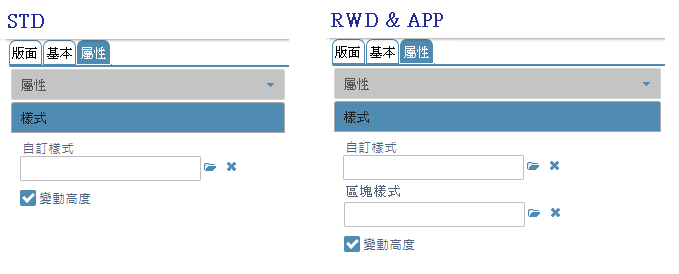
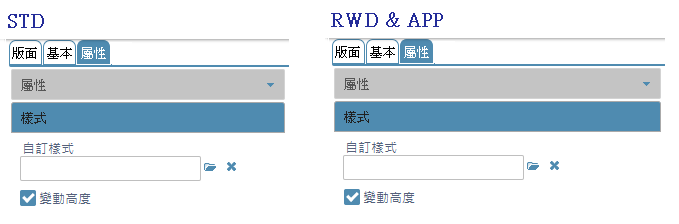
#8627、#8610 IDE SA文件

diff --git a/8.10.1/UPDATE/ITEM_5/IDE/Form/README.md b/8.10.1/UPDATE/ITEM_5/IDE/Form/README.md
@@ -9,7 +9,7 @@
 
     * 各元件類型在版面上的樣式呈現, 除非有特別說明或DKS已開放設定的部份, 其它皆以 Client 引擎目前的預設樣式為主(含除致能變化), 本文件不列引擎樣式說明, 若有引擎樣式規格問題, 請洽 Client 引擎負責人
         * 元件類型: 元件容器(wCtnr), 增加顯示區塊的狀態樣式: 請洽 client 引擎負責人
-        * 元件類型: 元件容器(wCtnr), 編輯模式下, 若資料查詢資料
+        * 元件類型: 元件容器(wCtnr), 當空白列或子元件總高度超過磚塊高度, 出現垂直捲軸
 
 * <p id="fieldbreak1" style="color:blue;font-weight:bold">版面物件操作說明</p>
 
@@ -20,8 +20,8 @@
             * 若設計類型=自適應 或 APP, 系統預設初始高度:50px, 元件屬性: 變動高度，固定為 True, 元件高度應依子階元件的總高度變動
                     此處規格不變，省略
         * 若元件類型=元件容器(wCtnr), 且區塊模式=磚塊式              
-            * 新增列、 插件列: 
-                * 固定給列高度:50px
+            * 新增列、 插入列: 
+                * 固定給列高度: 50px
                 * 磚塊高度、磚塊寬度: 不變化
             * 增修刪子元件時的異動變化
                 * 當新增子元件時, 磚塊高度不變; 子元件的變動高度調整為false, 且除能; 否則 致能
@@ -32,9 +32,6 @@
                 * 當修改子元件高度時
                     * 重新計算子元件總高度，若大於磚塊高度，則出現垂直捲軸 
                     * 重新計算該列子元件總高度, 若有多餘的高度，將剩餘的高度給最後一列
-                * 
-
-
 
 
 

diff --git a/8.10.1/UPDATE/ITEM_5/IDE/Form/WidgetBaseProperty_wCtnr.md b/8.10.1/UPDATE/ITEM_5/IDE/Form/WidgetBaseProperty_wCtnr.md
@@ -85,17 +85,15 @@
 * `(1)自訂樣式`
     * 用途說明
     * 規格說明
-        * 參照 [挑選自訂樣式通則][link_style_select], 限定: 元件類型=元件容器
-* `(2)區塊樣式`
-    * 用途說明
-    * 規格說明
-        * 參照 [挑選自訂樣式通則][link_style_select], 限定: 元件類型=區塊
+        * 參照 [挑選自訂樣式通則][link_style_select], 限定: 元件類型=元件容器, 回傳: 單元樣式名稱
+        * 
 * `(3)變動高度`
     * 用途說明
         * 當為磚塊式，提供變動高度選擇，單列式的容器元件一定是變動高度
     * 規格說明
         * 參照 [元件寬高異動通則][link_width_and_height]
-        * 當設計類型=APP 或 RWD, 且父階元件類型=元件容器(wCtnr), 且該父階的容器區塊模式=單列式, 本欄除能
+        * 當設計類型=APP 或 RWD, 且父階元件類型=元件容器(wCtnr), 且容器的區塊模式=磚塊式, 本欄除能. 系統預設: false
+        * 當設計類型=App 或 RWD, 且元件類型=元件容器(wCtnr), 且容器的區塊模式=單列式, 本欄除能. 系統預設: true
 
 
 ## <div id="right-click-function">右鍵功能</div>

diff --git a/8.10.0/UPDATE/ITEM_25/IDE/OAList/README.md b/8.10.0/UPDATE/ITEM_25/IDE/OAList/README.md
@@ -19,12 +19,14 @@
         * 規格說明
             * 單選選項: 下拉式 / 固定式
             * 系統預設: 下拉式
+            * 當表單設計類型=標準, 且`(1)呈現方式`=下拉式, 異動欄位: `(2)選擇筆數`=單選
             * <delLine>固定式: 選項 單選/複選; 呈現方式=固定式，致能; 預設單選<delLine>
     * `(2)選擇筆數`
         * 用途說明
         * 規格說明
             * 單選選項: 單選 / 多選
             * 系統預設: 單選
+            * 當表單設計類型=標準, 且`(1)呈現方式`=下拉式, 則 除能, 否則 致能
     * `(3)查詢轉換欄位`
         * 用途說明
         * 規格說明

diff --git a/8.10.1/UPDATE/ITEM_5/IDE/Form/GeneralRules.md b/8.10.1/UPDATE/ITEM_5/IDE/Form/GeneralRules.md
@@ -52,7 +52,8 @@
 * `(3)變動高度`
     * 用途說明
     * 規格說明
-        * checkbox，設計類型=傳統表單，隱藏本欄，系統預設: False；高度計算方式=APP 或 自適應，顯示本欄，依元件預設樣式給
+        * 設計類型=傳統表單, 且元件類型<>容器元件(wCtnr), 隱藏本欄. 系統預設: False
+        * 設計類型=APP、RWD, 或 設計類型=標準 且 元件類型=容器元件(wCtnr), 顯示本欄, 並依元件預設樣式給值
 * `備註事項`
     * 當異動設定時，需影響版面變化，參考: [屬性設定影響版面變化說明][link_layout_variety]
     
